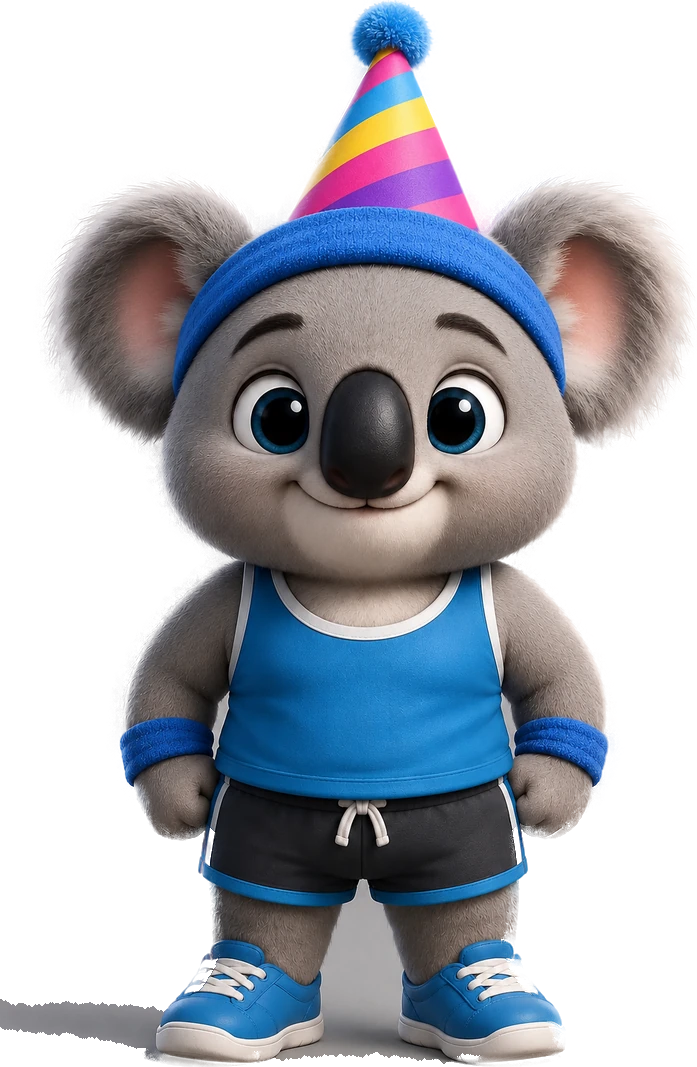
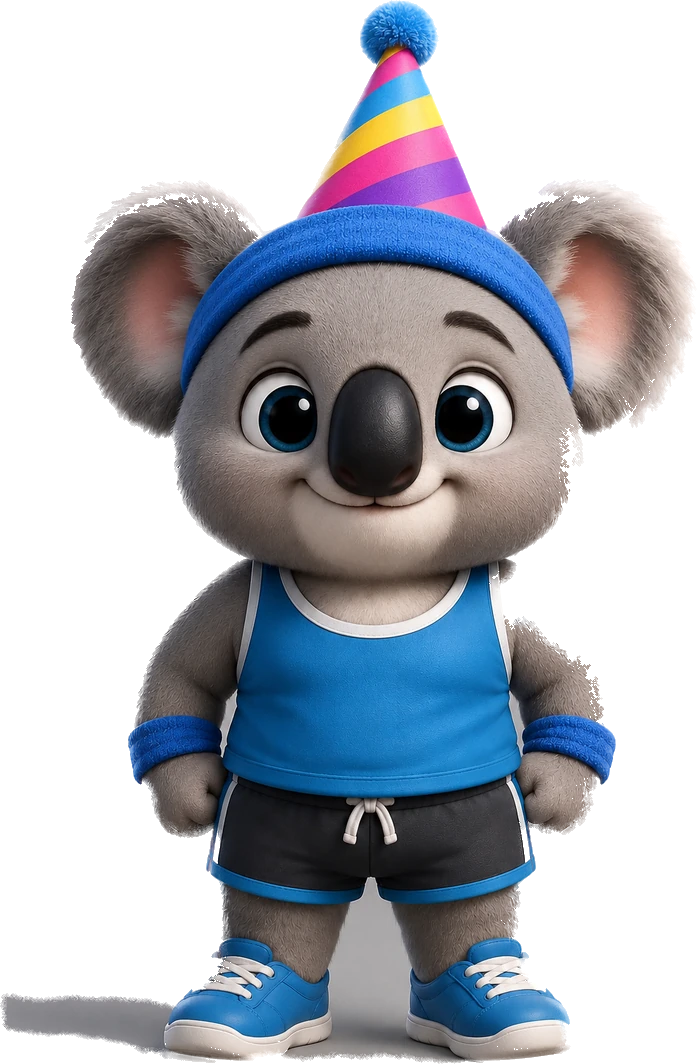
fix(native): cleaner koala mattes — remove hip-gap bg + under-foot shadow
The prior matte kept the grey background trapped in the arm/torso hip gaps
and a shadow smudge under the feet. Detect enclosed grey pockets (bg-coloured
regions not touching the koala core) and the bottom drop-shadow, mark them
bg in the trimap, protect the eroded interior so the fur/forehead never
holes, and drop sub-0.14 alpha speckle. Hips and feet are clean now; aspects
updated.

Claude-Session: https://claude.ai/code/session_01CUH7TUGEuziSHu9PpEAzPC

Changed region(s): [[0.0, 0.0, 0.9943, 1.0]]

diff --git a/native/src/lib/mascot-images.ts b/native/src/lib/mascot-images.ts
@@ -54,15 +54,15 @@ const art = (source: number, aspect: number): PoseArt => ({ source, aspect });
 export const MASCOT_IMAGES: Record<string, MascotImageSet> = {
   koa: {
     idle: art(require('../../assets/mascots/koa.png'), 859 / 640),
-    happy: art(require('../../assets/mascots/koa-happy.webp'), 1.336),
-    sad: art(require('../../assets/mascots/koa-sad.webp'), 1.330),
-    tired: art(require('../../assets/mascots/koa-sad.webp'), 1.330),
-    sleep: art(require('../../assets/mascots/koa-sleep.webp'), 1.448),
-    celebrate: art(require('../../assets/mascots/koa-celebrate.webp'), 1.381),
-    curl: art(require('../../assets/mascots/koa-curl.webp'), 1.324),
-    wave: art(require('../../assets/mascots/koa-wave.webp'), 1.347),
-    hat: art(require('../../assets/mascots/koa-hat.webp'), 1.531),
-    coat: art(require('../../assets/mascots/koa-coat.webp'), 1.386),
+    happy: art(require('../../assets/mascots/koa-happy.webp'), 1.318),
+    sad: art(require('../../assets/mascots/koa-sad.webp'), 1.298),
+    tired: art(require('../../assets/mascots/koa-sad.webp'), 1.298),
+    sleep: art(require('../../assets/mascots/koa-sleep.webp'), 1.443),
+    celebrate: art(require('../../assets/mascots/koa-celebrate.webp'), 1.342),
+    curl: art(require('../../assets/mascots/koa-curl.webp'), 1.322),
+    wave: art(require('../../assets/mascots/koa-wave.webp'), 1.318),
+    hat: art(require('../../assets/mascots/koa-hat.webp'), 1.527),
+    coat: art(require('../../assets/mascots/koa-coat.webp'), 1.365),
   },
 };
 
